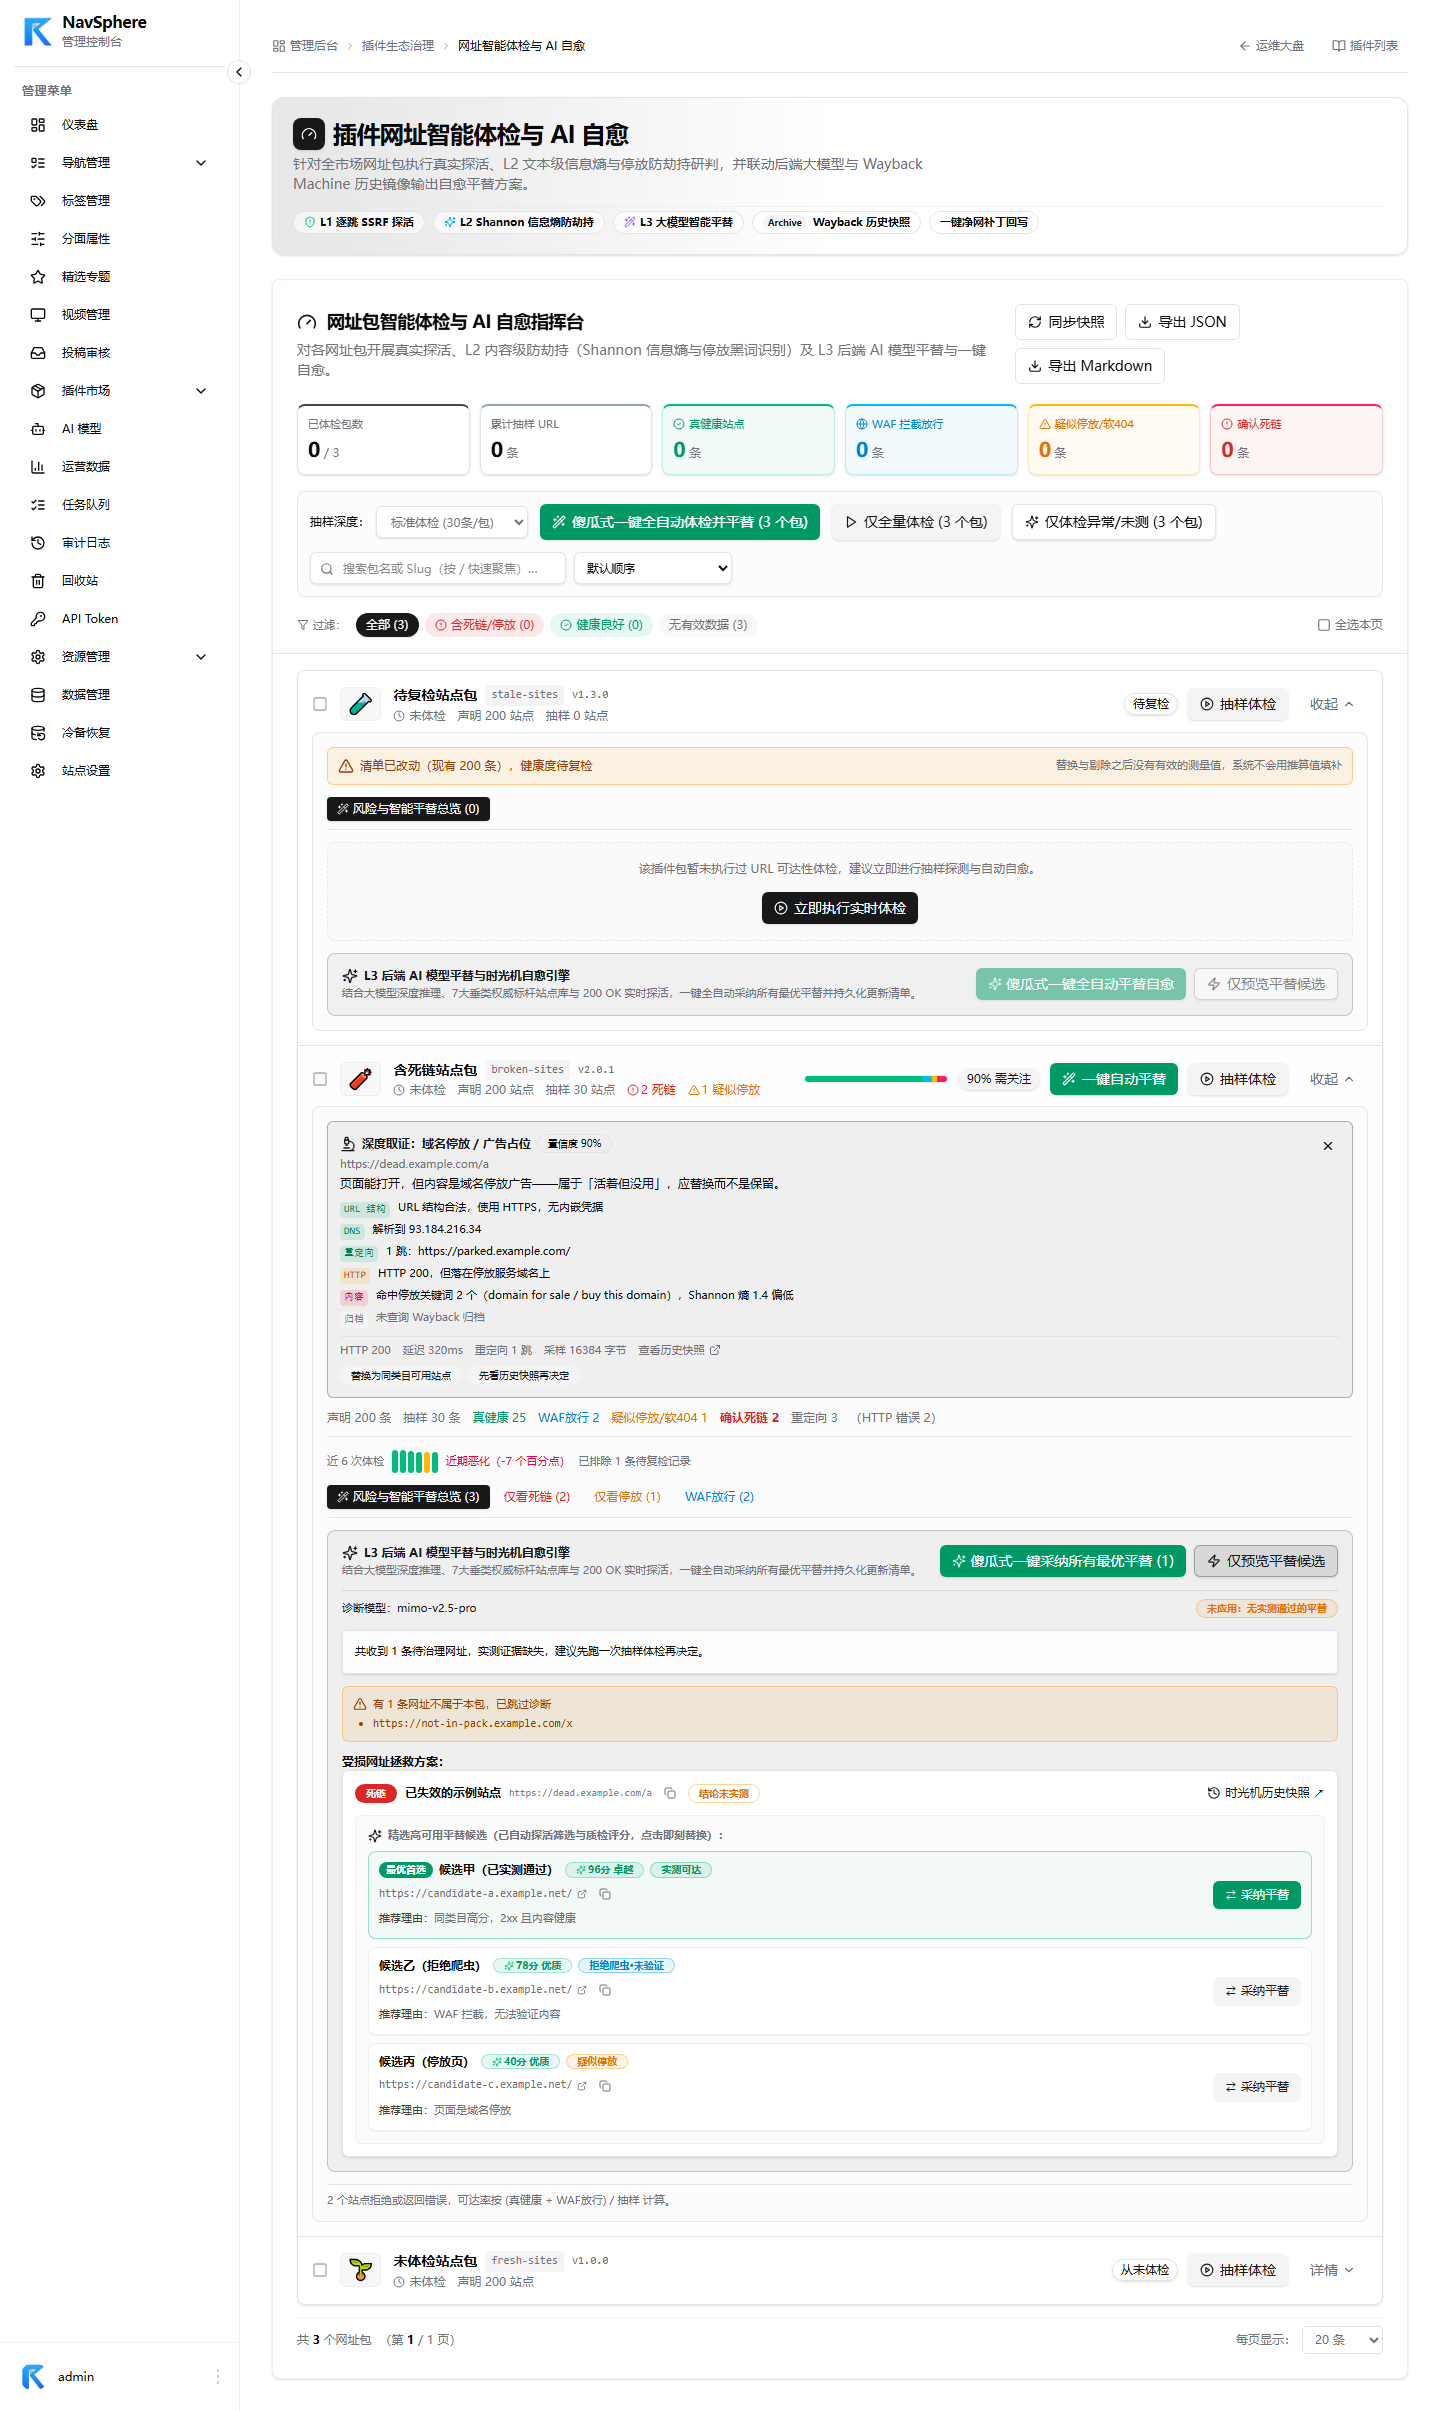
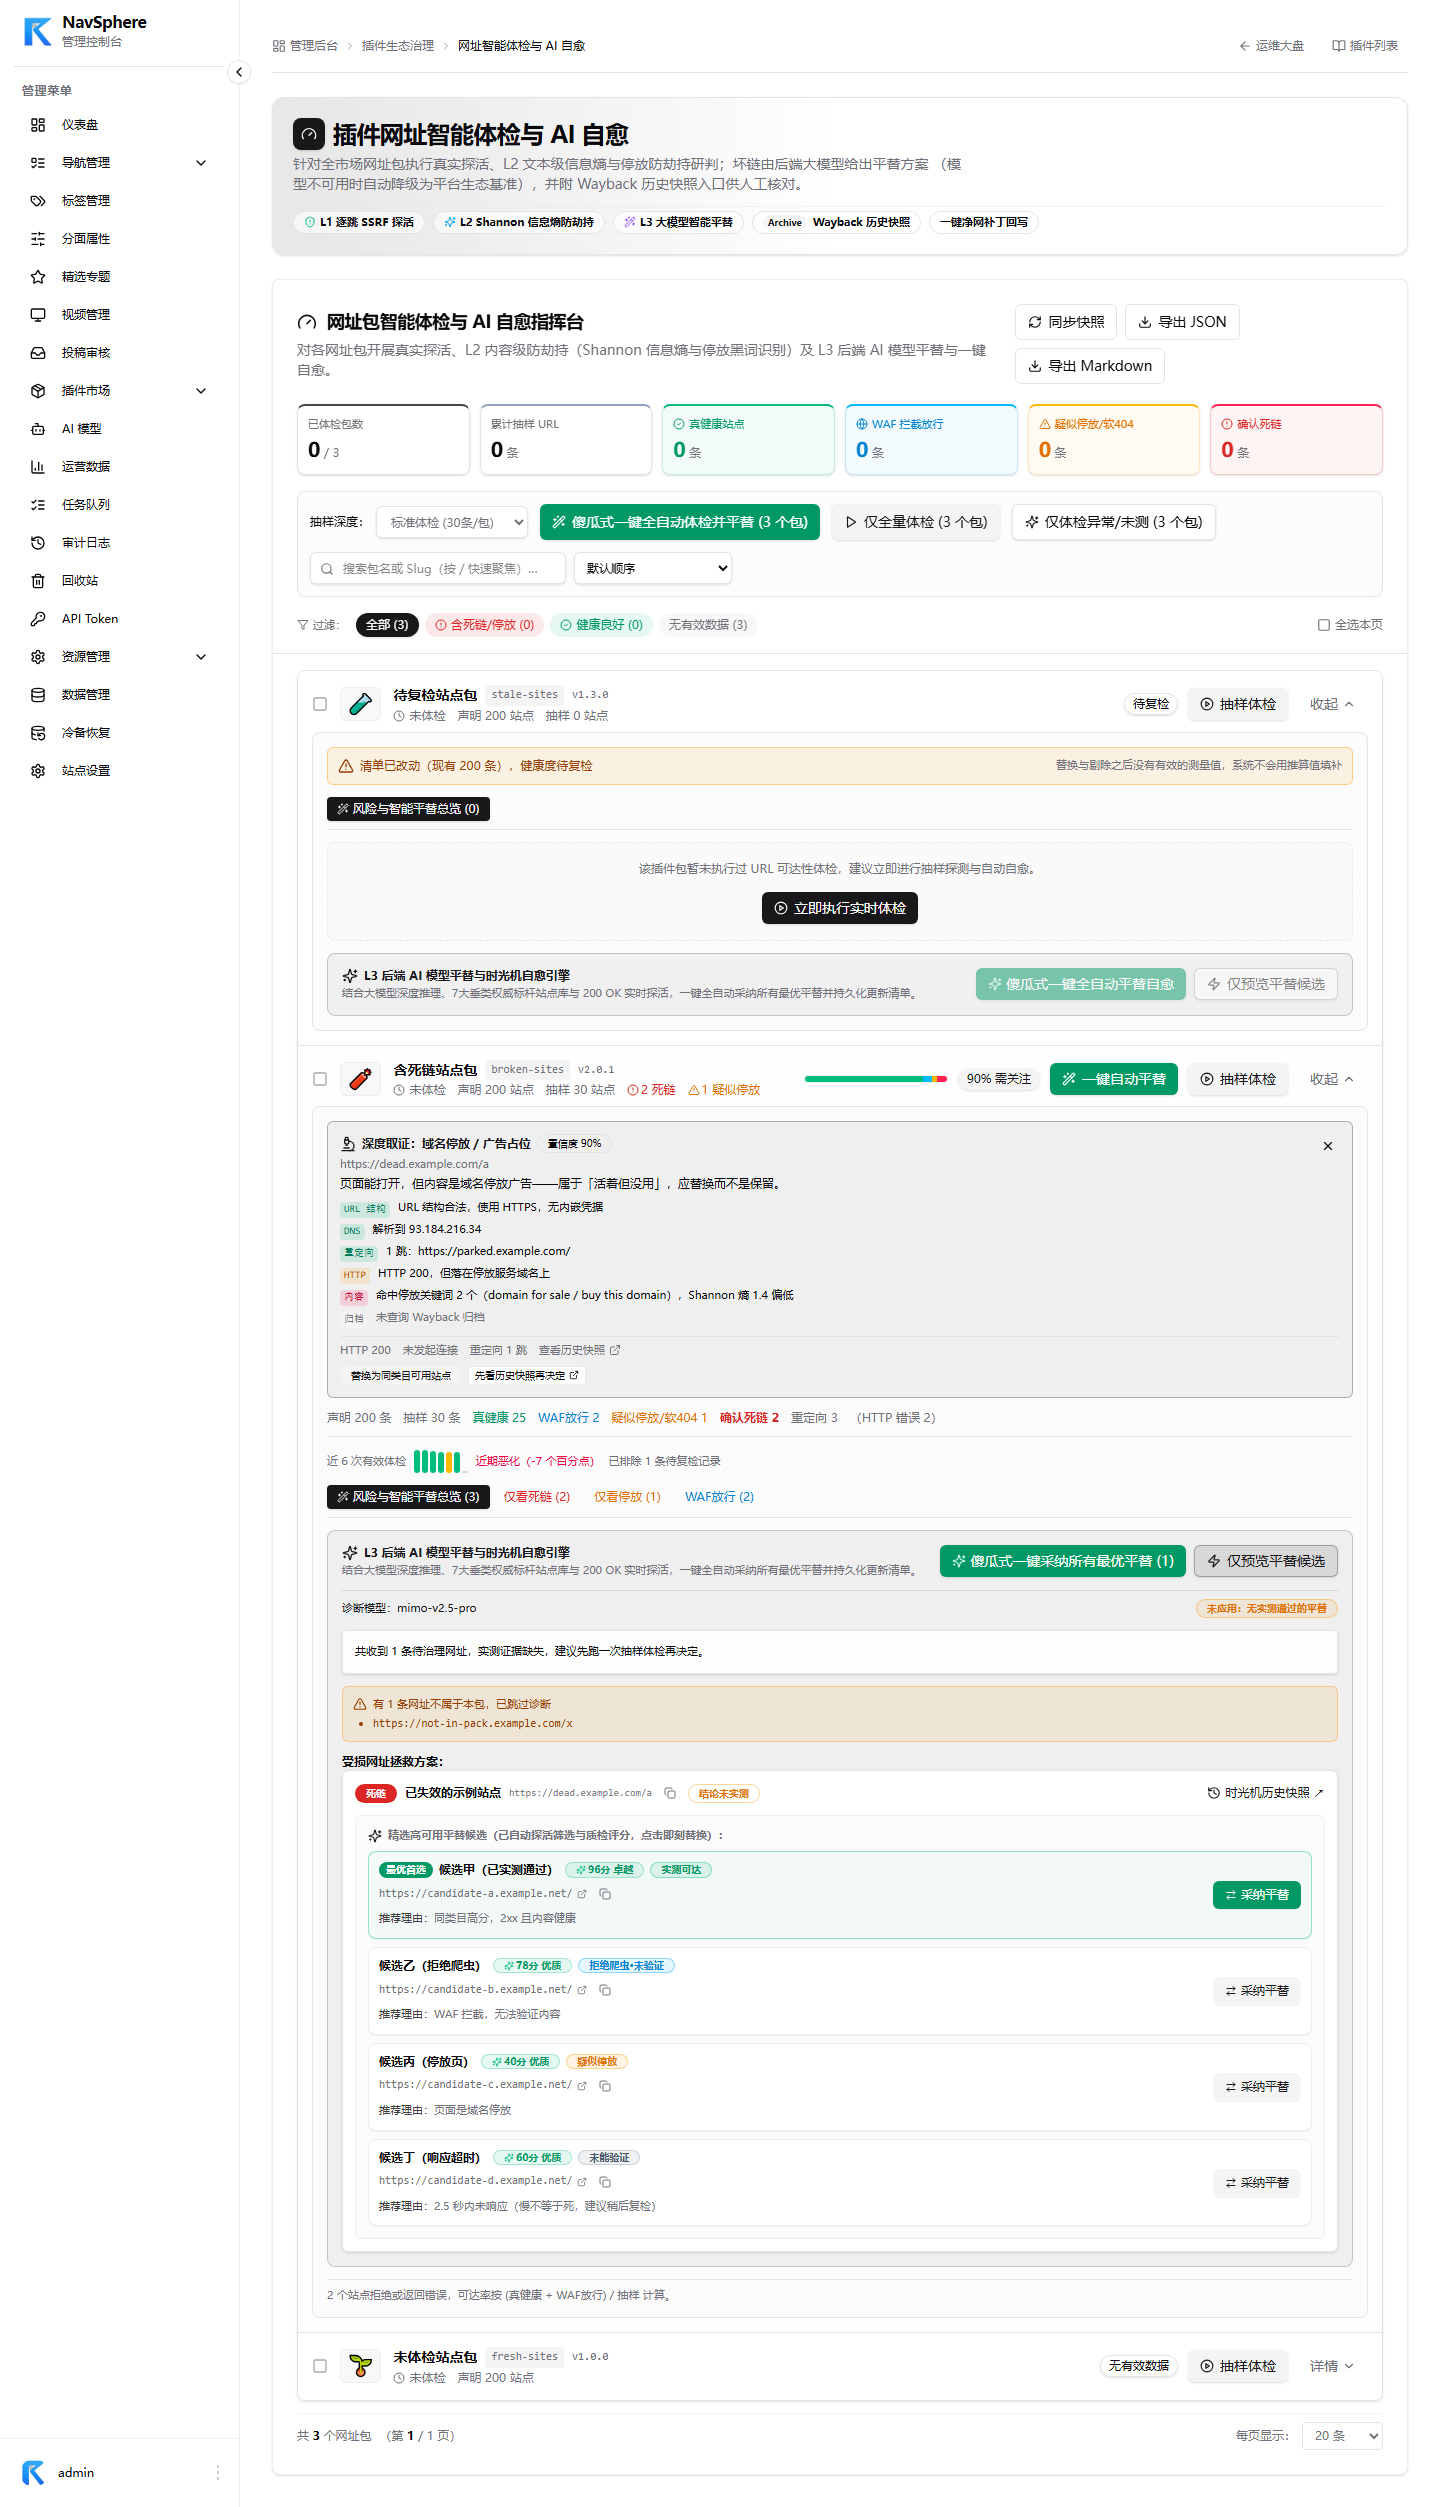
test(plugin-health): 候选档位断言切块到候选行，修掉「不可达」误伤整抽屉的假红
抽屉在 activeTab 为 issues/broken 时都会渲染「确认不可达死链清单（共 N 条）」，
抽样体检一跑就出现；原断言取整个抽屉 innerText 判「不得出现不可达」
⇒ 与候选档位无关的稳定假红，也会把指标行的「疑似停放」当成候选证据。

改为 li[title*="合成可信度"] 切块（面板给每行挂了可信度分解），
并补一条锚点自检：锚点失效先报锚点，不会把空文本读成「没有不可达」。

生产产物实测：
- NEXT_DIST_DIR=.next-uibuild8 next build（2m21s，exit 0）
- next start -p 3453（自带 NAVHUB_ADMIN_PASSWORD，不碰其他会话实例）
- ui-regression：37/37；控制台异常 0；/api/hub/* 4xx/5xx 0
- 两条新增断言实测生效：超时候选显示「未能验证」、未发起连接显示「未发起连接」

文档补第十章，并记录 fe1bb82 那段「stale 第三分支」为何是死代码
（刷新后 snap 回退 history[pack.slug]，stale 由 :757 琥珀卡承载）。

diff --git a/deliverables/plugin-health/设计-插件智能体检与AI自愈增强.md b/deliverables/plugin-health/设计-插件智能体检与AI自愈增强.md
@@ -396,3 +396,53 @@ status chars textLen entropy kw health        trunc  url
 - 类型检查：5/5 包通过
 - 真实网络复验：MDN 403/404 与 http.cat 由误判转为 HEALTHY
 
+
+---
+
+## 十章 第三轮：生产产物上的真实浏览器验收（2026-10-27）
+
+前两轮都只在单测与开发库层面验证，面板的 37 条断言中另有 2 条是第二轮新增、从未端到端跑过。本章把它们送到生产产物上跑一遍。
+
+### 10.1 为什么要换到生产产物
+
+`next dev` 在本机跑不了这类回归：多个会话共用 `apps/web/.next`，互相把对方的写入当变更，实测 2 分钟内触发 104 次 Fast Refresh 全量重载，所有点击都报 `element was detached`。改用独立 `NEXT_DIST_DIR` 的生产构建 + `next start`，并且**起服务前先探端口空闲**（否则 `next start` 会静默落到别的会话的 dev 实例上，症状是 HTML 里出现 `.next-userflow\dev\` 路径）。
+
+### 10.2 结果
+
+```
+NEXT_DIST_DIR=.next-uibuild8 next build        # 2m21s，exit 0
+NEXT_DIST_DIR=.next-uibuild8 next start -p 3453
+NAVHUB_VERIFY_PASSWORD=… node deliverables/plugin-health/ui-regression.mjs --base http://localhost:3453 --shot
+
+{"total":37,"passed":37,"failed":0}
+```
+
+两条本轮新增的断言实测输出：
+
+| 断言 | 实测证据 |
+|---|---|
+| 深检：未发起连接时写「未发起连接」而不是「延迟 0ms」 | 面板文本取到 `未发起连接` |
+| 候选：超时候选标「未能验证」而不是「不可达」 | 候选区块含「不可达」= false；同时 `实测可达` / `拒绝爬虫·未验证` / `疑似停放` / `未能验证` 四档齐现 |
+
+生产模式的登录按设计关闭了 `bypass` 快捷通道，验证实例自带 `NAVHUB_ADMIN_PASSWORD` 走口令表单，不影响其他会话的 `:3000/:3100/:3200/:3400/:3001` 实例。
+
+### 10.3 验收过程中发现的两处问题
+
+**（1）回归脚本自身会假红：`!/不可达/` 判错了范围。** 候选四档的断言原先取整个抽屉的 `innerText`，而抽屉里在 `activeTab === 'issues' | 'broken'` 时还会渲染「确认不可达死链清单（共 N 条）」标题（面板 :1072）——抽样体检一跑就出现，于是「超时不得被说成不可达」这条断言**必然红灯**，红的原因却与候选档位无关。同理「疑似停放」在指标行也有同名字样，整抽屉包含它并不能证明候选徽标标对了。
+
+修法是把断言切块到候选行：候选行的 `title` 带「合成可信度：…」（面板 :1379 给每行挂的可信度分解），用 `li[title*="合成可信度"]` 取 `allInnerTexts()`，并新增一条前置断言「四行候选都带可信度分解（切块锚点有效）」——锚点失效时先报锚点，不会把空文本误判成「没有不可达」。**教训：断言「某处不得出现某词」时，必须先证明取到的文本块恰好是那一处。**
+
+**（2）我上一轮写了一段永远跑不到的分支，被并行会话修掉。** `fe1bb82` 给行内加「清单被改过、健康度待复检」的第三分支时，把它挂在了 `snap ? … : snap?.stale ? …` 的 else 上——走到那里 `snap` 必为假值，`snap?.stale` 恒 `undefined`，前端门禁 tsc 直接报 TS2339（`Property 'stale' does not exist on type 'never'`）。核查后确认这段是死代码且不影响输出：刷新页面后 `snap` 回退到 `history[pack.slug]`（面板 :2973 `snap={results[pack.slug] || history[pack.slug]}`），stale 由 `/plugins/url-health/summary` 的 history 条目带回来，由 :757 的琥珀卡片渲染。已接受该删除，并以此为据补跑生产构建验收。
+
+### 10.4 本轮改动的文件
+
+| 文件 | 改动 |
+|---|---|
+| `deliverables/plugin-health/ui-regression.mjs` | 候选档位断言切块到候选行；新增切块锚点自检；`不可达` 判定不再覆盖整抽屉 |
+| `apps/web-overlay/src/components/plugins/plugin-url-health-panel.tsx` | 无（`27e95d8` 已摘除死分支，本轮只做核查） |
+
+### 10.5 验证记录
+- 生产构建 `next build`：exit 0，2m21s
+- 真实浏览器回归：**37/37**
+- 控制台 JS 异常：0；`/api/hub/*` 4xx/5xx：0
+- overlay 与 `apps/web` 一致性：707 文件，rc=0
